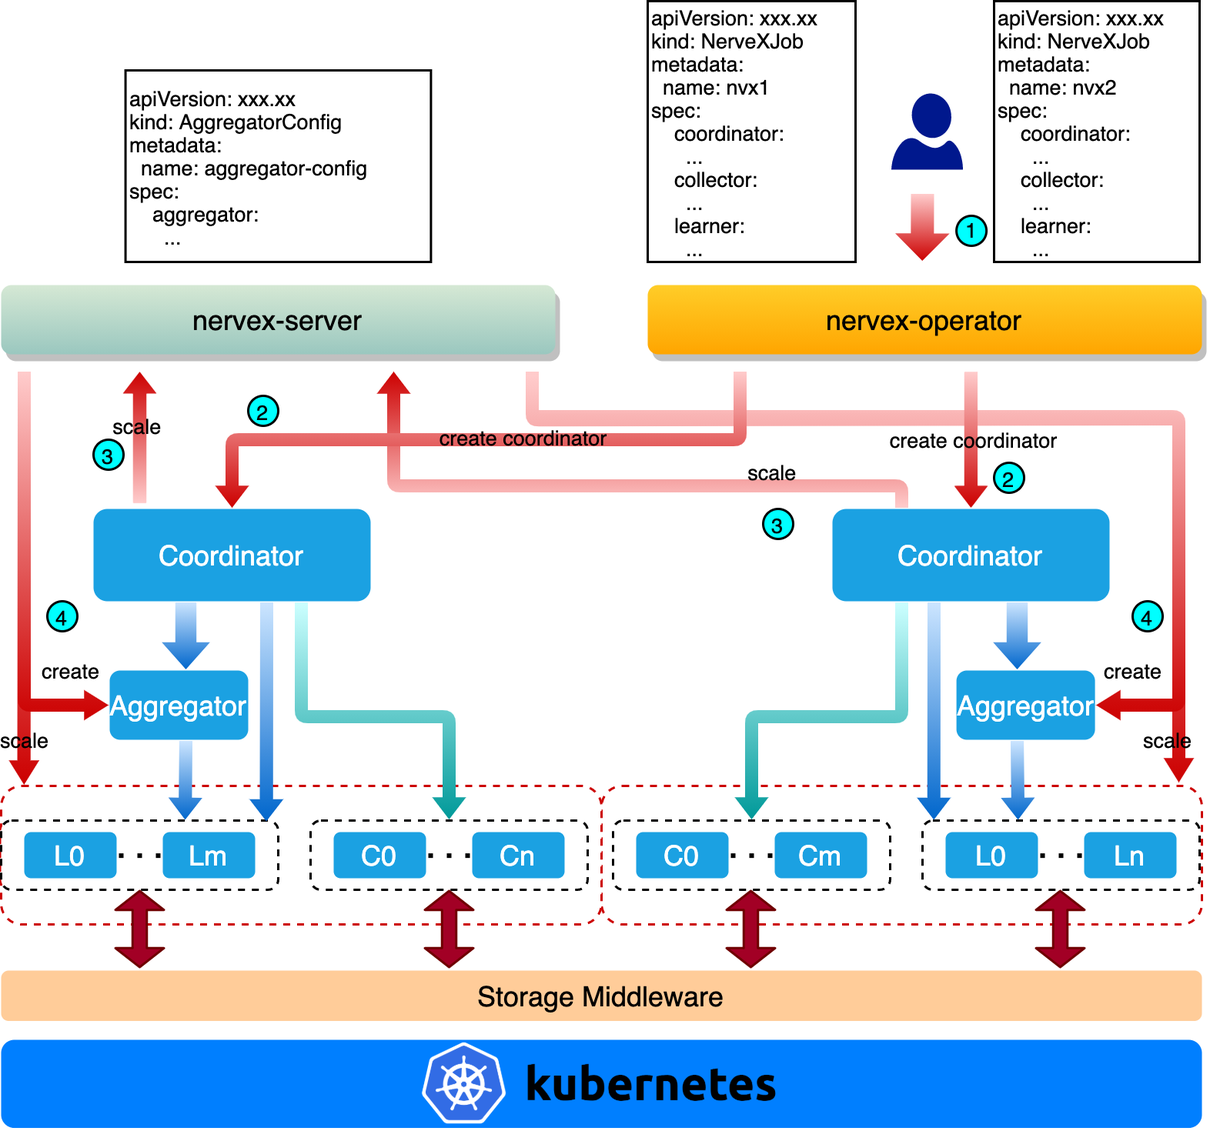
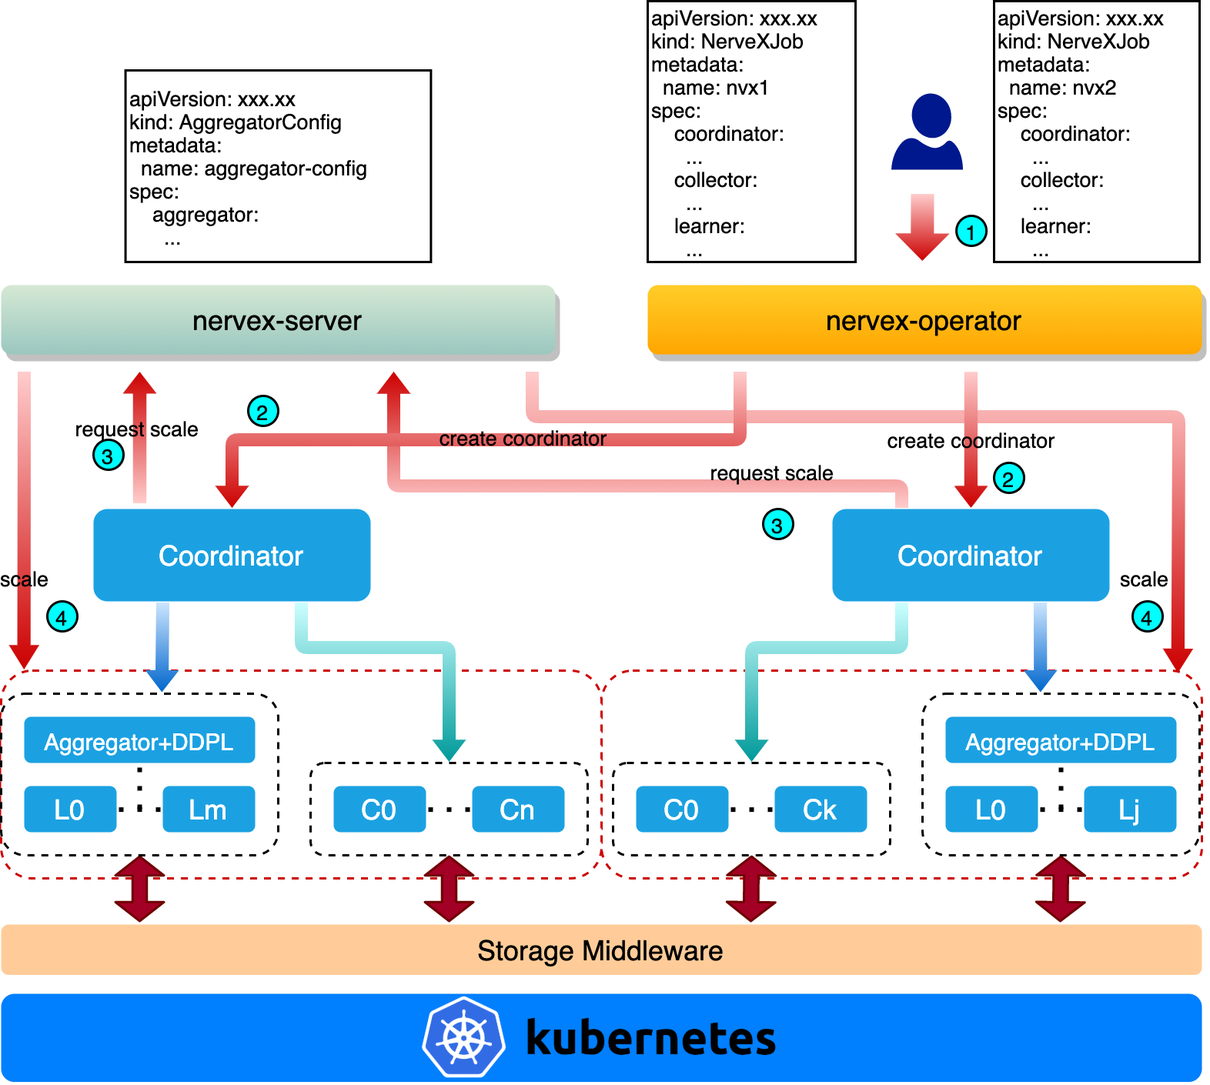
docs: update project name to nervex-orchestrator

Changed region(s): [[0.0, 0.0, 0.9975, 0.9986]]

diff --git a/docs/architecture-cn.md b/docs/architecture-cn.md
@@ -1,14 +1,21 @@
-# nervex-operator架构
-这里将介绍nerve-operator的架构，说明nerveX各个模块在k8s系统上如何被创建、如何相互发现、如何开始训练等。有关nerveX的介绍可参考[nerveX key concepts](https://gitlab.bj.sensetime.com/open-XLab/cell/nerveX/tree/doc/one-week/nervex/docs/source/key_concept)。nervex-operator的架构如下图所示：
+# NerveX Orchestrator架构
+nerveX框架分为3个重要的模块，分别是coordinator、collector和learner。一般情况下，一个nerveX训练任务只有一个coordinator，learner和collector的数目可以变化。三个模块的作用分别为：
+- coordinator：保持与collector和learner的连接，接受collector和learner的获取原信息请求、推送原信息请求等，向learner和collector发送任务。
+- collector：从coordinator获取RL模型在存储中间件中的位置并加载RL模型，然后在自身构造的环境中根据RL模型决策产生数据帧，将数据帧存储回存储中间件，并将数据帧原信息（存储路径、大小等）汇报给coordinator。
+- learner：从coordinator获取数据帧存储位置并从存储中间件中加载数据帧开始训练RL模型，训练完成之后将模型存储到中间件中，并将模型原信息（存储路径、大小等）汇报给coordinator。由于learner部分常常存在数据并行训练这一额外的分布式机制，避免混淆，我们将与coordinator进行交互的模块称作logic learner，是coordinator下发任务的基本单位；而将数据并行训练中的单个learner进程称作ddp learner，多个ddp learner进程提供数据并行服务。一个logic learner可以对应1个ddp learner（单卡）或多个ddp learner（多卡）。另外，提供数据并行训练服务还需要额外引入aggregator模块，aggregator负责将多个ddp learner的训练结果进行汇总并发送给coordinator，即aggregator与多个ddp learner一起构成logic learner，而coordinator只会与logic learner进行交互。
+
+有关nerveX的详细介绍可参考[nerveX developer tutorial](http://open-xlab.pages.gitlab.bj.sensetime.com/cell/nerveX/tutorial_dev/index.html)。
+
+为了提供nerveX在Kubernetes（K8s）中运行的支持，我们设计了NerveX Orchestrator，本文将说明利用NerveX Orchestrator，nerveX各个模块在K8s系统上如何被创建、如何相互发现、如何开始训练等。NerveX Orchestrator的架构如下图所示：
 
 ![](images/nervex-arch.png)
 
-整体分为两大模块：`nervex-server`和`nervex-operator`。接下来将首先介绍一个nerveX任务提交到k8s之后nervex-operator如何将nerveX的各个模块（在k8s中就是一个[pod](https://kubernetes.io/docs/concepts/workloads/pods/)）创建并启动，然后将对nervex-server和nervex-operator进行介绍。
+整体分为两大模块：`nervex-server`和`nervex-operator`。接下来将首先介绍一个nerveX任务提交到K8s之后NerveX Orchestrator如何将nerveX的各个模块（在K8s中就是一个[pod](https://kubernetes.io/docs/concepts/workloads/pods/)）创建并启动，然后将对nervex-server和nervex-operator进行介绍。
 
 ## 任务创建流程
-这里介绍任务创建流程，说明一个nerveX任务在k8s中从创建到执行完成的一整个生命周期
-- 编写AggregatorConfig yaml文件，定义aggregator的模板，将在后面创建NerveXJob的时候有需要用来创建aggregator，aggregator可以为训练端提供数据并行训练服务。
-- 编写NerveXJob yaml文件，定义coordinator、collector、learner的模板，提交到k8s集群中。
+这里介绍任务创建流程，说明一个nerveX任务在K8s中从创建到执行完成的一整个生命周期
+- 编写AggregatorConfig yaml文件，定义aggregator的模板，将在后面创建NerveXJob的时候用来创建aggregator，aggregator可以为训练端提供数据并行训练服务。
+- 编写NerveXJob yaml文件，定义coordinator、collector、learner的模板，提交到K8s集群中。
 - nervex-operator监听到NerveXJob的提交，创建coordinator，并为coordinator创建可访问的域名。
 - coordinator启动之后按照默认配置向nervex-server请求创建一定数目的collector和learner。
 - nervex-server收到coordinator的创建请求后，读取NerveXJob中collector和learner的模板，创建相应数目的collector（上图中Cn）和learner（上图中Lm）并把collector和learner可访问的URL返回给请求方。同时，根据每个learner中申请的GPU数目来决定是否创建aggregator。即当learner申请的GPU数目大于1时创建为该learner创建一个aggregator，否则不创建aggregator。
@@ -16,11 +23,11 @@
 - 用户可手动向nervex-server发送请求增删collector和learner，coordinator会定期查询其可用的collector和learner数目并决定新建或断开连接。
 - 训练结束后，nervex-operator默认会将collectors、learner、aggregator都删除掉，而coordinator则会保留给用户查看日志等操作。
 
-## nervex-operator
-nervex-operator是在一个负责在k8s系统中编排NerveXJob的组件，采用k8s [operator pattern](https://kubernetes.io/docs/concepts/extend-kubernetes/operator/)，通过[controller pattern](https://kubernetes.io/docs/concepts/architecture/controller/)中的控制循环监听k8s集群中NerveXJob的状态，并在有需要的时候对NerveXJob的状态进行修改，使得NerveXJob的实际状态与我们预定义的状态尽可能保持一致。
+## NerveX Operator
+nervex-operator是在一个负责在K8s系统中编排NerveXJob的组件，采用K8s [operator pattern](https://kubernetes.io/docs/concepts/extend-kubernetes/operator/)，通过[controller pattern](https://kubernetes.io/docs/concepts/architecture/controller/)中的控制循环监听K8s集群中NerveXJob的状态，并在有需要的时候对NerveXJob的状态进行修改，使得NerveXJob的实际状态与我们预定义的状态尽可能保持一致。
 
 ### API定义
-nerveX框架分为3个重要的模块，分别是coordinator、collector和learner（aggregator被认为是一种特殊的logic learner），根据每个模块的特性，我们定义了两种自定义资源（Custom Resource），分别是NerveXJob和AggregatorConfig。前者用来定义一个RL任务的coordinator、collector和learner运行所需的必备条件，包括镜像、启动命令、所需计算和存储资源、环境变量等；后者用来定义一个RL任务的aggregator运行所需的必备条件。
+根据nerveX框架中每个模块的特性，我们定义了两种自定义资源（Custom Resource），分别是NerveXJob和AggregatorConfig。前者用来定义一个RL任务的coordinator、collector和learner运行所需的必备条件，包括镜像、启动命令、所需计算和存储资源、环境变量等；后者用来定义一个RL任务的aggregator运行所需的必备条件。
 
 NerveXJob定义：
 ```go
@@ -53,7 +60,7 @@ type AggregatorConfigSpec struct {
 ```
 
 > **为什么aggregator单独定义？**
-    aggregator对所有使用nerveX框架进行RL训练的任务都是通用的，因此我们将aggregator定义为一个全局的、共享的资源AggregatorConfig，所有RL任务提交后，nervex-operator都将通过读取集群中唯一的AggregatorConfig来创建aggregator。另外，aggregator只是针对最常见的数据并行训练，如果是其他并行训练方法，需要定义新的Custom Resource。
+    aggregator对所有使用nerveX框架进行RL训练的任务都是通用的，因此我们将aggregator定义为一个全局的、共享的资源AggregatorConfig，所有RL任务提交后，nervex-server将通过读取集群中唯一的AggregatorConfig来创建aggregator。另外，aggregator只是针对最常见的数据并行训练，如果是其他并行训练方法，需要定义新的Custom Resource。
 ### 状态定义
 用户提交NerveXJob后，nervex-operator便接管了NerveXJob的生命周期的管理，为了便于用户了解NerveXJob的状态，我们定义了以下阶段（phase）：
 
@@ -107,29 +114,29 @@ DefaultCoordinatorPort = 22273
 
 coordinator创建之后，nervex-operator将监听pod的状态并修改NerveXJob的状态。等到NerveXJob完成后（Succeeded或者Failed），nervex-operator默认会将NerveXJob的所有处于Running阶段的pod和所有的service都删除，coordinator pod会保留。
 
-### webhook
-用户提交NerveXJob时，可能存在yaml文件里的某些字段输入错误的问题，导致NerveXJob的运行状态达不到预期，影响用户排查问题；或者需要为NerveXJob的某些字段设置默认值。如果在NerveXJob提交到k8s集群前能为NerveXJob设置默认值，以及做一次正确性校验，有助于用户提前发现问题。
+### Webhook
+用户提交NerveXJob时，可能存在yaml文件里的某些字段输入错误的问题，导致NerveXJob的运行状态达不到预期，影响用户排查问题；或者需要为NerveXJob的某些字段设置默认值。如果在NerveXJob提交到K8s集群前能为NerveXJob设置默认值，以及做一次正确性校验，有助于用户提前发现问题。
 
-在k8s中，可以配置webhook在NerveXJob提交到k8s集群之前对其进行正确性校验。k8s webhook分为MutatingWebhook和ValidatingWebhook，前者用于修改k8s资源对象的值，后者用于验证k8s资源对象的正确性。
+在K8s中，可以配置webhook在NerveXJob提交到K8s集群之前对其进行正确性校验。K8s webhook分为MutatingWebhook和ValidatingWebhook，前者用于修改K8s资源对象的值，后者用于验证K8s资源对象的正确性。
 
 nervex-operator中实现了webhook校验方法，创建MutatingWebhook用于设置NerveXJob的默认值；创建ValidatingWebhook用于校验NerveXJob的正确性。比如对`CleanPodPolicy`字段，我们在MutatingWebhook中设置其默认值为`Running`，表示NerveXJob完成后将Running的pod都删除；我们在ValidatingWebhook中校验`CleanPodPolicy`字段的值，如果用户设置的值不等于`None`、`ALL`、`Running`中的任何一个，则拒绝提交该NerveXJob。
 
-## nervex-server
+## NerveX Server
 nervex-server是一个为nerveX框架定制的http服务器，提供新增、删除和查询collector、learner、aggregator的功能。通过调用nervex-server的相关接口，nervex-server为NerveXJob提供了动态增删collector和learner的能力。下面将对nervex-server的设计进行简要介绍，包括存储AggregatorConfig、NerveXJob以及NerveXJob所有pod的本地cache；用于动态新增、删除和查询collector、learner和aggregator的http接口设计。
 
 ### 本地cache
-为了减少nervex-server与k8s api server之间查询的频率，从而减轻k8s api server的负担，我们利用[client-go](https://github.com/kubernetes/client-go)提供的informer机制将AggregatorConfig、NerveXJob和NerveXJob的所有pod存储在本地cache，如下图所示
+为了减少nervex-server与K8s api server之间查询的频率，从而减轻K8s api server的负担，我们利用[client-go](https://github.com/kubernetes/client-go)提供的informer机制将AggregatorConfig、NerveXJob和NerveXJob的所有pod存储在本地cache，如下图所示
 
 [示意图](https://github.com/kubernetes/sample-controller/blob/master/docs/controller-client-go.md)
 
 ![](images/client-go-controller-interaction.jpeg)
 
-上图中我们只关注上半部分：reflector通过list & watch接受到新的资源实例存在的通知，就将新资源实例放到Delta Fifo queue中，informer从Delta Fifo queue中获取新资源实例并通过indexer存放到本地cache中。查询操作都可以通过查询本地cache来完成，减少向k8s api server的请求次数。如下命令：
+上图中我们只关注上半部分：reflector通过list & watch接受到新的资源实例存在的通知，就将新资源实例放到Delta Fifo queue中，informer从Delta Fifo queue中获取新资源实例并通过indexer存放到本地cache中。查询操作都可以通过查询本地cache来完成，减少向K8s api server的请求次数。如下命令：
 ```go
 genericInformer.Informer().GetIndexer().GetByKey(key)
 ```
 
-当资源对象有变更时，reflector同样会接受到通知并更新本地cache；另外，informer也会定期向api server同步本地cache，与k8s集群中的资源对象保持一致。
+当资源对象有变更时，reflector同样会接受到通知并更新本地cache；另外，informer也会定期向api server同步本地cache，与K8s集群中的资源对象保持一致。
 
 
 ### http接口
@@ -151,9 +158,9 @@ genericInformer.Informer().GetIndexer().GetByKey(key)
 
 各个接口的请求格式、请求参数、请求body、返回值详见[http接口定义](https://gitlab.bj.sensetime.com/platform/CloudNative4AI/cluster-lifecycle/nervex-operator/issues/6)。
 
-## nervex-operator优势
-nervex-operator为nerveX框架提供了分布式场景下基于k8s的容器运行方案。对于用户提交的NerveXJob，nervex-operator负责对nerveX的各个模块进行编排，使得各个模块可以正常运行并执行训练任务。通过调用nervex-server的接口，赋予coordinator新增、删除和查询其所有的collector、learner和aggregator的功能，提升nerveX框架资源动态分配的能力。总结nervex-operator提供了以下优势：
+## NerveX Orchestrator的优势
+NerveX Orchestrator为nerveX框架提供了分布式场景下基于K8s的容器运行方案。对于用户提交的NerveXJob，nervex-operator负责对nerveX的各个模块进行编排，使得各个模块可以正常运行并执行训练任务。通过调用nervex-server的接口，赋予coordinator新增、删除和查询其所有的collector、learner和aggregator的功能，提升nerveX框架资源动态分配的能力。总结NerveX Orchestrator提供了以下优势：
 1. 封装性。依赖nervex-operator的编排能力，部署nerveX分布式RL训练的细节（包括pod创建、服务发现）对用户来说是透明的。根据nerveX框架对分布式RL训练的部署需求，nervex-operator会将coordinator创建出来，然后coordinator再请求nervex-server创建其他模块，nervex-operator会把每个模块的pod的状态记录到NerveXJob的状态中。NerveXJob的生命周期也由nervex-operator维护，向用户展示NerveXJob在不同阶段的状态。
-2. 易用性。用户只需要在NerveXJob的yaml文件中定义好coordinator、collector、learner的配置之后，一键提交到k8s集群即可，nervex-operator将负责完成部署工作，将用户从k8s集群中复杂的分布式RL训练部署中解放出来。
-3. 鲁棒性。依赖k8s的pod重启机制，保证pod在意外退出的情况下能自动重启，coordinator能够迅速响应并重新连接。
+2. 易用性。用户只需要在NerveXJob的yaml文件中定义好coordinator、collector、learner的配置之后，一键提交到K8s集群即可，nervex-operator将负责完成部署工作，将用户从K8s集群中复杂的分布式RL训练部署中解放出来。
+3. 鲁棒性。依赖K8s的pod重启机制，保证pod在意外退出的情况下能自动重启，coordinator能够迅速响应并重新连接。
 4. 动态扩展。NerveXJob所需的collector/learner/aggregator是动态变化的，因此nervex-server提供了http接口可以动态调整collector/learner的数目，使得NerveXJob可以根据自身需求调整collector和learner的比例，优化吞吐量。

diff --git a/docs/architecture.md b/docs/architecture.md
@@ -1,9 +1,16 @@
 # NerveX Operator architecture
-Here we will introduce the architecture of `nervex-operator`, explaining how nerveX's modules are created on Kubernetes (K8s), how to implement service discovery, how to start training, etc. For the introduction of nerveX, please refer to [nerveX key concepts](https://gitlab.bj.sensetime.com/open-XLab/cell/nerveX/tree/doc/one-week/nervex/docs/source/key_concept). The architecture of `nervex-operator` is shown in the figure below:
+NerveX framework consists of 3 important modules, namely coordinator, collector and learner. In general, a nerveX training job has only one coordinator, and the number of learners and collectors can vary. The roles of the three modules are:
+- Coordinator. Maintain connections with collectors and learners, accept meta-infos requests and posts from collectors and learners, and send tasks to collectors and learners.
+- Collector. Request path to RL model stored in storage middleware from coordinator, load the RL model, and then generate data frames according to the RL model's steps from environment. Store the data frames back to the storage middleware, and report meta-infos (the storage path, size, etc.) of the data frames to coordinator.
+- Learner: Request data frames storage path from coordinator and load the data frames from storage middleware to start training the RL model. After the training is completed, store the model into the storage middleware, and report model meta-infos (storage path, size, etc.) to coordinator. Because we often need to use distributed mechanism of data parallel training, to avoid confusion, we call the module interacting with coordinator the logic learner, which is the basic unit for coordinator to issue tasks. And the single learner process in the data parallel training is called ddp learner, and multiple ddp learner processes provide data parallel services. One logic learner can correspond to one ddp learner (single-gpu) or multiple ddp learners (multi-gpu). In addition, to provide data parallel training services, an additional aggregator module needs to be introduced. The aggregator is responsible for summarizing the training results of multiple ddp learners and sending them to coordinator. That is, the aggregator and multiple ddp learners form a logic learner, and coordinator will only interact with logic learners.
+
+For the introduction of nerveX, please refer to [nerveX developer tutorial](http://open-xlab.pages.gitlab.bj.sensetime.com/cell/nerveX/tutorial_dev/index.html).
+
+In order to provide running support for nerveX in Kubernetes (K8s), we designed `NerveX Orchestrator`. This article will explain how to use NerveX Orchestrator, how each module of nerveX is created on K8s and discovers each other, how to start training, etc. The architecture of NerveX Orchestrator is shown in the figure below:
 
 ![](images/nervex-arch.png)
 
-There are two main modules that is `nervex-server` and `nervex-operator`. In the following pages, we will first introduce how `nervex-operator` creates and starts each module of nerveX after a nerveX job is submitted to K8s, and then introduces the architecture of nervex-server and `nervex-operator`.
+There are two main modules that is `nervex-server` and `nervex-operator`. In the following pages, we will first introduce how `NerveX Orchestrator` creates and starts each module of nerveX after a nerveX job is submitted to K8s, and then introduces the architecture of nervex-server and `nervex-operator`.
 
 ## Job creation process
 Here is a description of the job creation process, illustrating the entire life cycle of a nerveX job from creation to execution in K8s.
@@ -20,7 +27,7 @@ Here is a description of the job creation process, illustrating the entire life 
 Nervex-operator is a component responsible for orchestrating NerveXJob in K8s. It uses K8s [operator pattern](https://kubernetes.io/docs/concepts/extend-kubernetes/operator/) to monitor the status of NerveXJob objects in K8s cluster through the control loop in [controller pattern](https://kubernetes.io/docs/concepts/architecture/controller/), and to update the status of NerveXJob when necessary. The status is modified so that the actual status of NerveXJob is as consistent as possible with our predefined status.
 
 ### API definition
-The nerveX framework consists of 3 important modules, namely coordinator, collector and learner (aggregator is treated as a logic learner). According to the characteristics of each module, we have defined two Custom Resources, namely NerveXJob and AggregatorConfig. The former is used to define the prerequisites for coordinator, collector and learner to start running, including docker images, startup commands, computing and storage resources, environment variables, etc. The latter is used to define the prerequisites for aggregator.
+According to the characteristics of each module, we have defined two Custom Resources, namely NerveXJob and AggregatorConfig. The former is used to define the prerequisites for coordinator, collector and learner to start running, including docker images, startup commands, computing and storage resources, environment variables, etc. The latter is used to define the prerequisites for aggregator.
 
 NerveXJob definition is described as below:
 ```go
@@ -53,7 +60,7 @@ type AggregatorConfigSpec struct {
 ```
 
 > **Why should aggregator be defined alone?**
-    Aggregator is common module for all RL training jobs using nerveX framework, so we define the aggregator as a global and shared resource named AggregatorConfig. After RL jobs are submitted, nervex-operator will read the global AggregatorConfig in K8s cluster to create aggregators for these RL jobs. In addition, aggregator is only for most common data parallel training. You need to define a new Custom Resource if other parallel training methods are used.
+    Aggregator is common module for all RL training jobs using nerveX framework, so we define the aggregator as a global and shared resource named AggregatorConfig. After RL jobs are submitted, nervex-server will read the global AggregatorConfig in K8s cluster to create aggregators for these RL jobs. In addition, aggregator is only for most common data parallel training. You need to define a new Custom Resource if other parallel training methods are used.
 ### Status definition
 After NerveXJob is submitted, nervex-operator takes over the management of the life cycle of the NerveXJob. In order to facilitate the user to have a better view of the NerveXJob's status, we define the following phases:
 
@@ -153,8 +160,8 @@ In order to support dynamic scaling of collectors/learners for NerveXJobs, nerve
 
 For the request format, request parameters, request body, and return value of each interface, please refer to [http interface definition](https://gitlab.bj.sensetime.com/platform/CloudNative4AI/cluster-lifecycle/nervex-operator/issues/6)。
 
-## Advantages of NerveX Operator
-Nervex-operator provides a K8s-based container-orchestration solution for the nerveX framework in a distributed scenario. For a NerveXJob, nervex-operator is responsible for arranging the various modules of nerveX so that each module can run normally and perform training tasks. By calling nervex-server’s HTTP interface, coordinator is given the ability to add, delete, and query all its collectors, learners, aggregators and improve the dynamic allocation of nerveX framework resources. In summary, nervex-operator provides the following advantages:
+## Advantages of NerveX Orchestrator
+NerveX Orchestrator provides a K8s-based container-orchestration solution for the nerveX framework in a distributed scenario. For a NerveXJob, nervex-operator is responsible for arranging the various modules of nerveX so that each module can run normally and perform training tasks. By calling nervex-server’s HTTP interface, coordinator is given the ability to add, delete, and query all its collectors, learners, aggregators and improve the dynamic allocation of nerveX framework resources. In summary, NerveX Orchestrator provides the following advantages:
 1. Encapsulation. Relying on the orchestration capabilities of nervex-operator, deploying nerveX distributed RL training (including pod creation and service discovery) are transparent to us. According to the deployment requirements of the nerveX framework for distributed RL training, nervex-operator will create coordinator, and then the coordinator will request nervex-server to create other modules. Nervex-operator will record the status of the pod of each module into the status of the NerveXJob. The life cycle of NerveXJob is also maintained by nervex-operator, providing us with status of NerveXJob in different stages.
 2. Ease of use. We only need to define the configuration of coordinator, collector, and learner in the yaml file of NerveXJob, and submit them to K8s cluster with one click. Nervex-operator will be responsible for deploying nerveX RL trainings and liberating us from the complex distributed RL deployments in K8s cluster.
 3. Robustness. Relying on the pod restart mechanism of K8s, it ensures that pods can automatically restart in the event of an unexpected exit, and the coordinator can respond quickly and reconnect.
